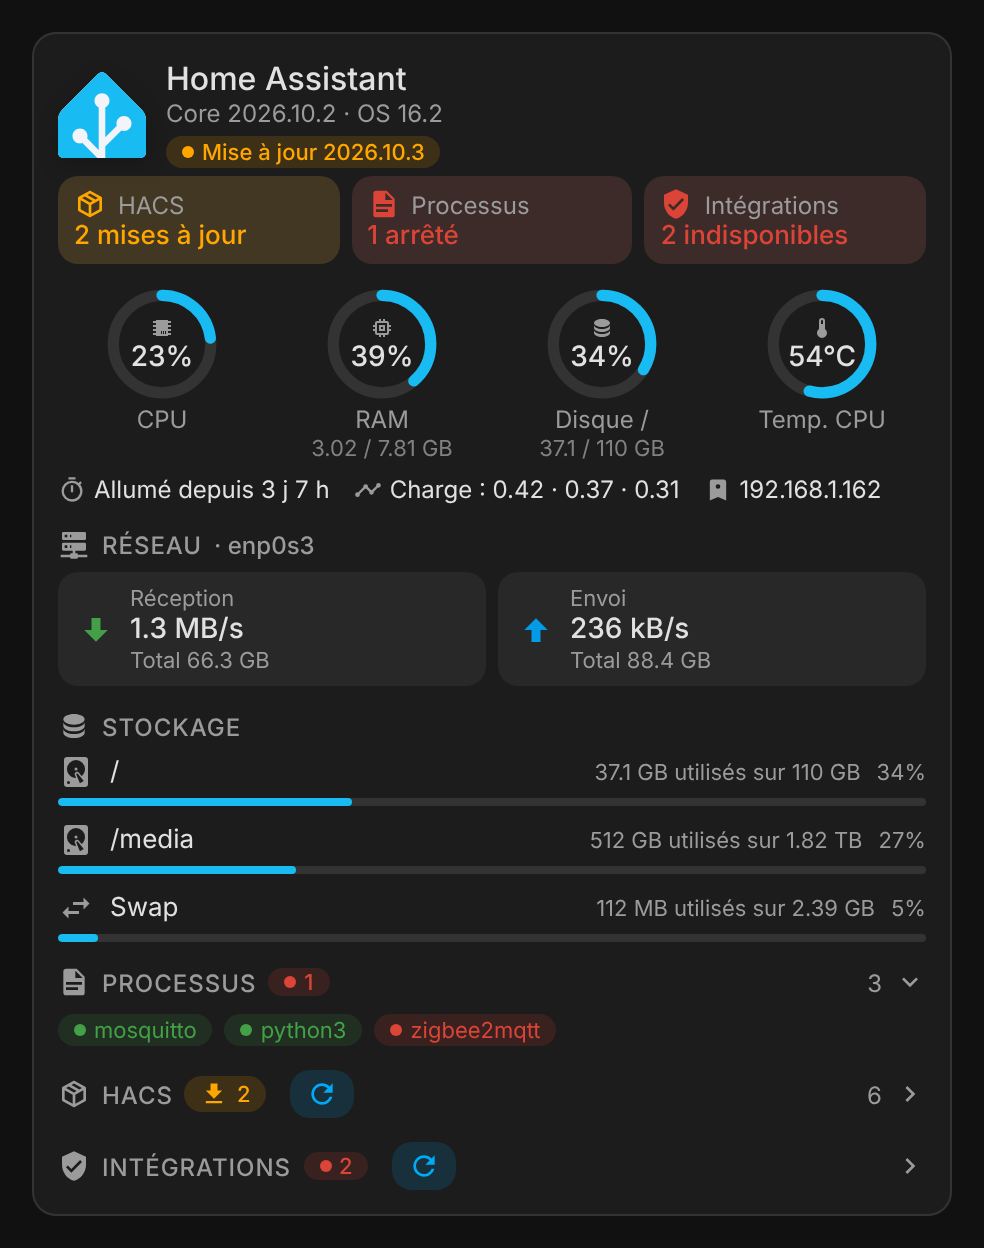
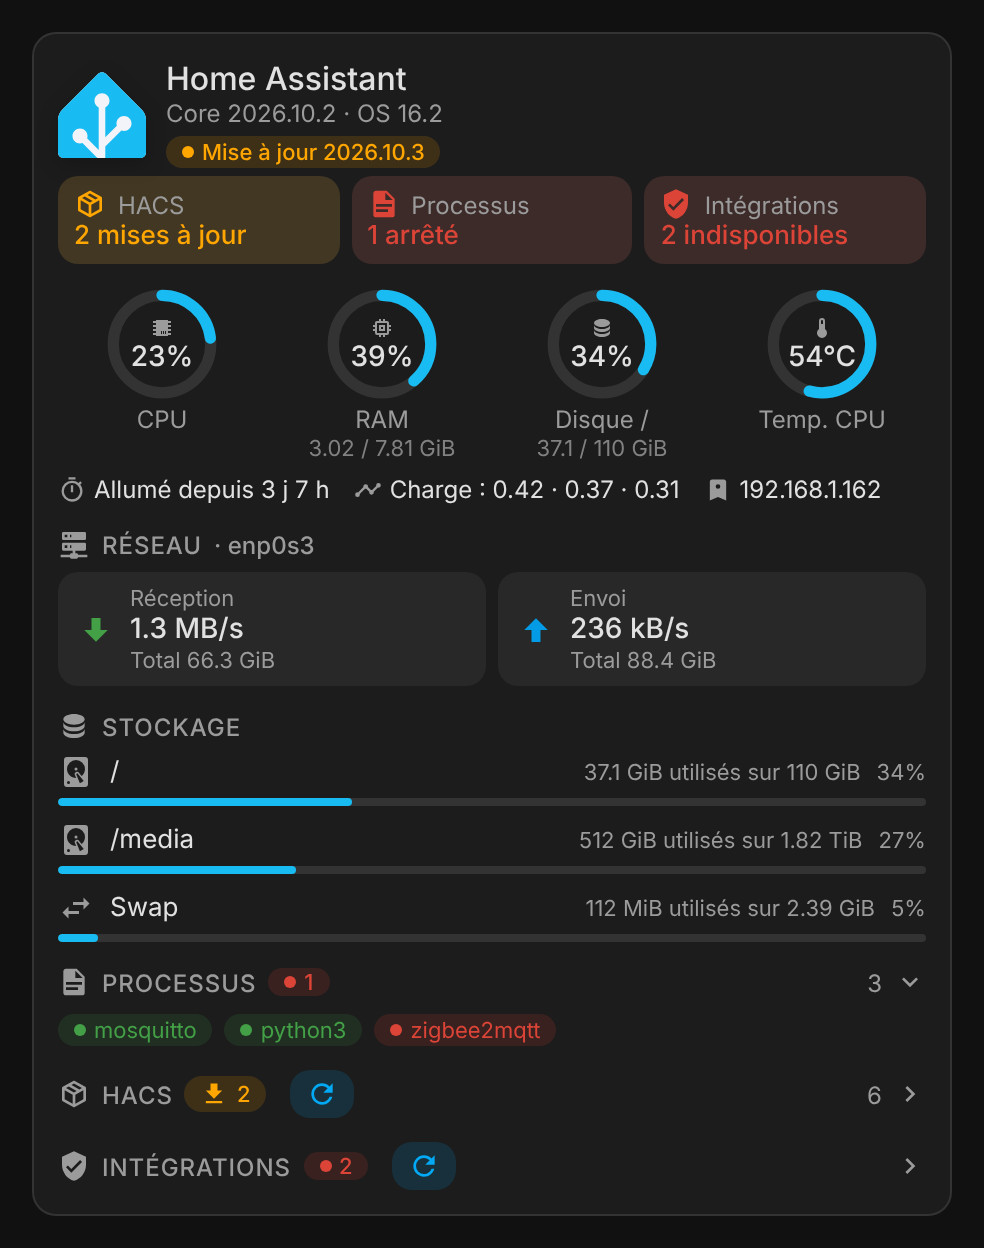
Minor fixes from the October 2026 code review (#19)
* Keyboard access to rows and tiles, binary size units, keep logos across token rotation and let every user check

Claude-Session: https://claude.ai/code/session_01RnkBDXjaXqtDMwjP67rHta

* Add tests for sizes, row focus, status row and check button

Claude-Session: https://claude.ai/code/session_01RnkBDXjaXqtDMwjP67rHta

---------

diff --git a/src/system-monitor-card.js b/src/system-monitor-card.js
@@ -259,9 +259,10 @@ const toBps = (s) => {
   return v * (SIZE_FACTORS[unit] ?? 1);
 };
 
+/** Sizes in powers of 1024, with binary prefixes as Home Assistant shows them (System Monitor reports MiB and GiB). */
 const fmtBytes = (b) => {
   if (b === null || b === undefined) return "—";
-  const units = ["B", "KB", "MB", "GB", "TB", "PB"];
+  const units = ["B", "KiB", "MiB", "GiB", "TiB", "PiB"];
   let i = 0;
   while (b >= 1024 && i < units.length - 1) {
     b /= 1024;
@@ -597,11 +598,14 @@ const attrSel = (name, value) => `[${name}="${String(value).replace(/["\\]/g, "\
 /** Selector finding the same clickable element again after a re-render, from its data-* attributes. */
 const focusSelector = (el) => {
   const d = el?.dataset;
-  if (!d?.action) return null;
-  return ["action", "target", "path", "entity"]
+  // Buttons, and rows or tiles that open an entity from the keyboard.
+  const entityButton = d?.entity && el.getAttribute?.("role") === "button";
+  if (!d?.action && !entityButton) return null;
+  const sel = ["action", "target", "path", "entity"]
     .filter((k) => d[k] !== undefined)
     .map((k) => attrSel(`data-${k}`, d[k]))
     .join("");
+  return d.action ? sel : `[role="button"]${sel}`;
 };
 
 const relTime = (iso, locale) => {
@@ -673,6 +677,8 @@ class SystemMonitorBase extends HTMLElement {
     this._wdOpen = false;
     this._procsOpen = false;
     this._imgFailed = new Set();
+    // Brand logo URL per integration domain, kept once loaded: a new brands token doesn't reload it.
+    this._brandUrls = new Map();
     this.shadowRoot.addEventListener("click", (ev) => {
       const path = ev.composedPath();
       // Links (GitHub) open on their own, without the more-info dialog.
@@ -717,7 +723,8 @@ class SystemMonitorBase extends HTMLElement {
       const el = path.find((n) => n.dataset?.entity);
       if (el) fireMoreInfo(this, el.dataset.entity);
     });
-    // Keyboard: Enter / Space on an element with role="button" (the check button is a span inside the folding header).
+    // Keyboard: Enter / Space on an element with role="button" (the check button is a span inside the folding header,
+    // gauges, tiles and rows open their entity). A real link (GitHub) inside a row keeps its own behaviour.
     this.shadowRoot.addEventListener("keydown", (ev) => {
       if ((ev.key === "Enter" || ev.key === " ") && ev.target?.getAttribute?.("role") === "button") {
         ev.preventDefault();
@@ -750,11 +757,22 @@ class SystemMonitorBase extends HTMLElement {
         const img = ev.target;
         if (img.tagName !== "IMG" || img.dataset.fb === undefined) return;
         this._imgFailed.add(img.getAttribute("src"));
+        // A kept brand URL whose token has expired: the next render uses the current token.
+        if (this._brandUrls.get(img.dataset.domain) === img.getAttribute("src")) this._brandUrls.delete(img.dataset.domain);
         const next = img.dataset.fb.split(" ").filter((u) => u && !this._imgFailed.has(u));
         if (next.length) {
           img.dataset.fb = next.slice(1).join(" ");
           img.src = next[0];
         } else img.replaceWith(Object.assign(document.createElement("span"), { innerHTML: svgIcon(ICONS[img.dataset.cat] || ICONS.hacs) }).firstChild);
+      },
+      true
+    );
+    this.shadowRoot.addEventListener(
+      "load",
+      (ev) => {
+        const img = ev.target;
+        const src = img.tagName === "IMG" ? img.getAttribute("src") : "";
+        if (img.dataset?.domain && src.startsWith("/api/brands/")) this._brandUrls.set(img.dataset.domain, src);
       },
       true
     );
@@ -794,7 +812,7 @@ class SystemMonitorBase extends HTMLElement {
       this._brandsToken = null; // older Home Assistant: CDN only
     }
     this._tokenPending = false;
-    this._html = "";
+    // Renders only if a logo URL changed: logos already loaded keep theirs (see _logoSources).
     this._update();
   }
 
@@ -802,7 +820,9 @@ class SystemMonitorBase extends HTMLElement {
   _logoSources(x) {
     const out = [];
     if (x.domain) {
-      if (this._brandsToken)
+      const kept = this._brandUrls.get(x.domain);
+      if (kept) out.push(kept);
+      else if (this._brandsToken)
         out.push(`/api/brands/integration/${encodeURIComponent(x.domain)}/icon.png?placeholder=no&token=${encodeURIComponent(this._brandsToken)}`);
       out.push(`https://brands.home-assistant.io/_/${encodeURIComponent(x.domain)}/icon.png`);
     }
@@ -814,7 +834,7 @@ class SystemMonitorBase extends HTMLElement {
     const src = this._logoSources(x);
     const cat = ICONS[x.category] ? x.category : "hacs";
     if (!src.length) return `<span class="ext-logo fallback">${svgIcon(ICONS[cat])}</span>`;
-    return `<span class="ext-logo"><img src="${esc(src[0])}" data-fb="${esc(src.slice(1).join(" "))}" data-cat="${cat}" alt="" loading="lazy" referrerpolicy="no-referrer"></span>`;
+    return `<span class="ext-logo"><img src="${esc(src[0])}" data-fb="${esc(src.slice(1).join(" "))}" data-cat="${cat}" data-domain="${esc(x.domain || "")}" alt="" loading="lazy" referrerpolicy="no-referrer"></span>`;
   }
 
   /** Checks one extension through HACS Refresh's check_repository action, which ends with the result. */
@@ -1061,11 +1081,17 @@ class SystemMonitorBase extends HTMLElement {
     return this._stat("wd", ICONS.watchdog, this._t("integrations"), value, n ? "crit" : "good", text);
   }
 
-  /** A status tile of the row under the header: section icon and name, status in its color; a click folds or unfolds that section. */
+  /**
+   * A status tile of the row under the header: section icon and name, status in its color; a click folds or unfolds that section.
+   * Returns its status class with its HTML, so that callers don't have to read the status back from the markup.
+   */
   _stat(action, icon, label, value, cls, title) {
-    return `<div class="stat clickable ${cls}" ${this._statTarget(action)} role="button" tabindex="0" title="${esc(title)}" aria-label="${esc(title)}">
+    return {
+      cls,
+      html: `<div class="stat clickable ${cls}" ${this._statTarget(action)} role="button" tabindex="0" title="${esc(title)}" aria-label="${esc(title)}">
         <div class="k">${svgIcon(icon)}<span>${esc(label)}</span></div><div class="v">${esc(value)}</div>
-      </div>`;
+      </div>`,
+    };
   }
 
   /** What a click on a status tile does: here, fold or unfold its section. */
@@ -1073,10 +1099,15 @@ class SystemMonitorBase extends HTMLElement {
     return `data-action="${action}"`;
   }
 
+  /** Status tiles shown: HACS, processes, integrations. */
+  _stats(sm) {
+    return [this._hacsStat(), this._procsStat(sm), this._wdStat()].filter(Boolean);
+  }
+
   /** Overall statuses (HACS, processes, integrations), side by side under the header. */
   _statusRow(sm) {
-    const stats = [this._hacsStat(), this._procsStat(sm), this._wdStat()].filter(Boolean);
-    return stats.length ? `<div class="stats" style="--n:${stats.length}">${stats.join("")}</div>` : "";
+    const stats = this._stats(sm);
+    return stats.length ? `<div class="stats" style="--n:${stats.length}">${stats.map((x) => x.html).join("")}</div>` : "";
   }
 
   _noSm() {
@@ -1243,7 +1274,7 @@ class SystemMonitorCard extends SystemMonitorBase {
   }
 
   _gauge(id, label, icon, value, display, cls, detail = "") {
-    return `<div class="gauge clickable ${cls}" data-entity="${id || ""}">
+    return `<div class="gauge clickable ${cls}" data-entity="${id || ""}" role="button" tabindex="0">
       <div class="dial">${ring(value)}<div class="val">${svgIcon(icon)}<b>${display}</b></div></div>
       <div class="lbl">${label}</div>
       ${detail ? `<div class="lbl2">${detail}</div>` : ""}
@@ -1315,7 +1346,7 @@ class SystemMonitorCard extends SystemMonitorBase {
     const tile = (n, rateKey, totalKey, cls, icon, label) => {
       const id = n[rateKey];
       const total = toBytes(this._s(n[totalKey]));
-      return `<div class="tile clickable ${cls}" data-entity="${id || ""}">${svgIcon(icon)}<div style="min-width:0">
+      return `<div class="tile clickable ${cls}" data-entity="${id || ""}" role="button" tabindex="0">${svgIcon(icon)}<div style="min-width:0">
         <div class="k">${esc(label)}</div>
         <div class="v">${fmtRate(toBps(this._s(id)))}</div>
         ${total !== null ? `<div class="t">${this._t("total")} ${fmtBytes(total)}</div>` : ""}
@@ -1337,7 +1368,7 @@ class SystemMonitorCard extends SystemMonitorBase {
 
   _bar(id, icon, label, u, warn, crit) {
     const cls = level(u.pct, warn, crit);
-    return `<div class="vol clickable ${cls}" data-entity="${id || ""}">
+    return `<div class="vol clickable ${cls}" data-entity="${id || ""}" role="button" tabindex="0">
       <div class="row">${svgIcon(icon)}<span class="grow">${esc(label)}</span></div>
       <div class="bar"><div style="width:${u.pct === null ? 0 : Math.max(0, Math.min(100, u.pct))}%"></div></div>
       <div class="detail">
@@ -1432,7 +1463,7 @@ class SystemMonitorCard extends SystemMonitorBase {
       const check = canCheckExt
         ? `<span class="gh" role="button" tabindex="0" data-action="hacs-check-ext" data-target="${x.id}" title="${esc(this._t("check_ext"))}" aria-label="${esc(this._t("check_ext"))}" aria-disabled="${checking}">${svgIcon(ICONS.refresh, checking ? "spin" : "")}</span>`
         : "";
-      return `<div class="ext clickable" data-entity="${x.id}">
+      return `<div class="ext clickable" data-entity="${x.id}" role="button" tabindex="0">
           ${this._logo(x)}
           <div class="grow"><div class="ext-name">${esc(x.name)}</div><div class="ext-ver">${ver}</div></div>
           ${status}${check}${gh}
@@ -1504,7 +1535,7 @@ class SystemMonitorCard extends SystemMonitorBase {
         ? `<span class="chip crit"><span class="dot"></span>${esc(this._t("wd_gave_up"))}</span>`
         : `<span class="chip warn"><span class="dot"></span>${esc(this._t("wd_unavailable"))}</span>`;
       const path = `/config/integrations/integration/${encodeURIComponent(x.domain)}`;
-      return `<div class="ext clickable" data-action="nav" data-path="${esc(path)}" title="${esc(this._t("wd_open"))}">
+      return `<div class="ext clickable" data-action="nav" data-path="${esc(path)}" role="button" tabindex="0" title="${esc(this._t("wd_open"))}">
           ${this._logo({ domain: x.domain, category: "integration" })}
           <div class="grow"><div class="ext-name">${esc(x.title || x.domain)}</div><div class="ext-ver">${esc(sub)}</div></div>
           ${status}
@@ -1570,7 +1601,7 @@ class SystemMonitorMiniCard extends SystemMonitorBase {
   }
 
   _metric(id, icon, label, p, display, cls) {
-    return `<div class="metric clickable ${cls}" data-entity="${id || ""}">
+    return `<div class="metric clickable ${cls}" data-entity="${id || ""}" role="button" tabindex="0">
       ${svgIcon(icon)}<span>${label}</span>
       <div class="bar"><div style="width:${p === null ? 0 : Math.max(0, Math.min(100, p))}%"></div></div>
       <span class="v">${display}</span>
@@ -1682,22 +1713,25 @@ class SystemMonitorStatusCard extends SystemMonitorBase {
 
   /** The status row shows up only while one of the statuses is not good. */
   _statusRow(sm) {
-    const stats = [this._hacsStat(), this._procsStat(sm), this._wdStat()].filter(Boolean);
-    if (!stats.some((x) => x.startsWith('<div class="stat clickable warn"') || x.startsWith('<div class="stat clickable crit"'))) return "";
+    if (!this._stats(sm).some((x) => x.cls === "warn" || x.cls === "crit")) return "";
     return super._statusRow(sm);
   }
 
-  /** Install the pending HACS updates, else check for updates through HACS Refresh. Admins only. */
+  /**
+   * Install the pending HACS updates (admins), else check for updates through HACS Refresh (every user,
+   * as in the full card: the check only fetches information).
+   */
   _button() {
-    if (this._config.show_hacs === false || (this._hass.user && !this._hass.user.is_admin)) return "";
+    if (this._config.show_hacs === false) return "";
     const ext = discoverHacs(this._hass);
     if (!ext.length) return "";
-    const n = ext.filter((x) => x.update).length;
+    const admin = !this._hass.user || this._hass.user.is_admin;
+    const n = admin ? ext.filter((x) => x.update).length : 0;
     const btn = (action, cls, icon, spin, label, title, busy) =>
       `<span class="btn ${cls}" role="button" tabindex="0" data-action="${action}" title="${esc(title)}" aria-label="${esc(title)}" aria-disabled="${busy}">
           ${svgIcon(icon, spin ? "spin" : "")}<span>${esc(label)}</span>
         </span>`;
-    const run = this._installing;
+    const run = admin && this._installing;
     if (run) {
       const title = this._t("installing").replace("{i}", run.done).replace("{n}", run.total);
       return btn("hacs-install-all", "warn", ICONS.refresh, true, `${run.done}/${run.total}`, title, true);

diff --git a/README.md b/README.md
@@ -173,10 +173,10 @@ Under the header, a row of tiles gives the overall status of each section: **HAC
 
 ### Status card
 
-The minimal card keeps the header (Core / OS versions and their update badge) and the status row, without gauges or lists. The status row shows up only while one of the statuses is not good (HACS update, stopped process, unavailable integration); when all is well, the card is just the header. On the right of the header, one button (admins only):
+The minimal card keeps the header (Core / OS versions and their update badge) and the status row, without gauges or lists. The status row shows up only while one of the statuses is not good (HACS update, stopped process, unavailable integration); when all is well, the card is just the header. On the right of the header, one button:
 
-- **Install (n)** when HACS updates are pending: installs them all, one after the other, after a confirmation, with the progress in the button
-- **Check** otherwise: checks every HACS repository for updates through [HACS Refresh](https://github.com/juju35/ha-hacs-refresh), with the progress in the button; hover it for the time of the last check. Without HACS Refresh and no pending update, the button is hidden
+- **Install (n)** when HACS updates are pending (admins only): installs them all, one after the other, after a confirmation, with the progress in the button
+- **Check** otherwise, for every user as in the full card: checks every HACS repository for updates through [HACS Refresh](https://github.com/juju35/ha-hacs-refresh), with the progress in the button; hover it for the time of the last check. Without HACS Refresh and no pending update, the button is hidden
 
 A click on the **HACS** tile opens HACS, on the **Integrations** tile the integrations page, and on the **Processes** tile the first stopped process.
 
